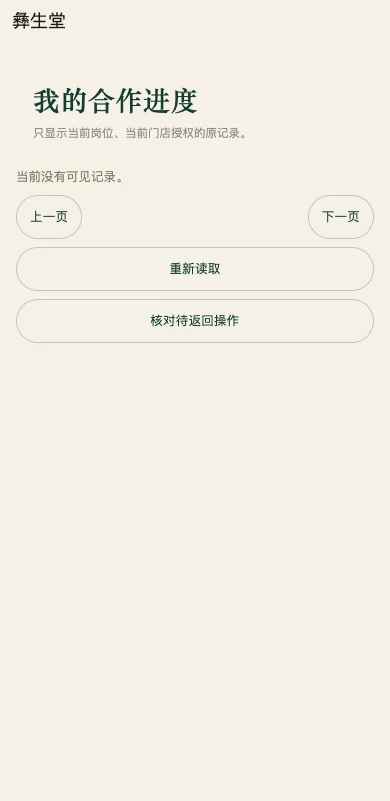
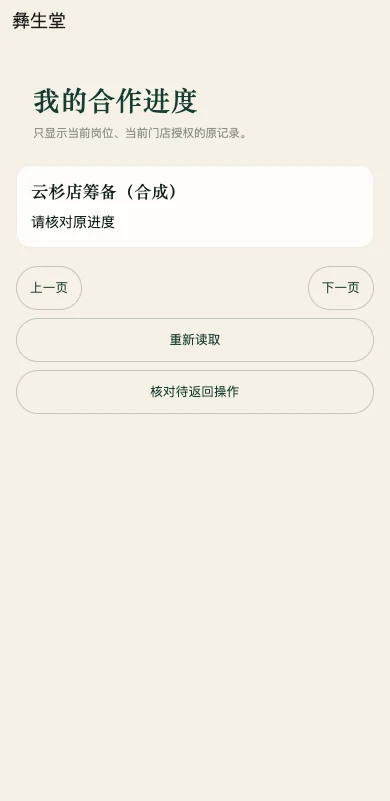
更新彝生堂公开手机工作台体验

diff --git a/lobby.css b/lobby.css
@@ -1,1 +1,3 @@
 *{box-sizing:border-box}html{scroll-behavior:smooth;scroll-padding:16px}body{margin:0;color:#183c32;background:#f8f5ee;font-family:-apple-system,BlinkMacSystemFont,"PingFang SC","Microsoft YaHei",sans-serif}a,button{font:inherit;color:inherit;cursor:pointer}a{text-decoration:none}button{border:0}header,main{width:min(1100px,100%);margin:auto;padding:0 clamp(16px,4vw,52px)}header{height:65px;display:flex;align-items:center;justify-content:space-between}header a{font-size:13px;text-decoration:underline;text-underline-offset:4px}header a,.secondary{min-height:44px;display:inline-flex;align-items:center}.mast{display:flex;align-items:center;gap:13px}.mast b,h1,.group h2{font-family:"Songti SC","STSong","Noto Serif CJK SC",serif}.mast b{font-size:24px;letter-spacing:.1em}.mast span{border-left:1px solid #b5bbab;padding-left:12px;font-size:12px}.intro{padding:24px 0 18px;border-top:1px solid #cfd3c6}.intro h1{margin:0;font-size:clamp(32px,5vw,54px);font-weight:650;letter-spacing:.035em}.intro p{font-size:15px;color:#475b51;line-height:1.75;max-width:600px;margin:12px 0 0}nav{display:flex;gap:8px;padding:0 0 22px;border-bottom:1px solid #a6b4a6}nav a{border:1px solid #bac6b7;border-radius:22px;padding:0 16px;line-height:42px;font-size:14px;background:#fffefa}.group{margin:26px 0 34px}.group h2{font-size:24px;line-height:1.2;margin:0 0 15px}.list{display:grid;grid-template-columns:repeat(2,minmax(0,1fr));gap:12px}.role{min-width:0;display:grid;grid-template-columns:minmax(0,1fr) 110px;gap:10px;align-items:center;padding:16px;border:1px solid #d4d9ca;background:#fffefa;border-radius:12px}.role h3{font-size:21px;margin:0}.role p{font-size:14px;line-height:1.6;color:#4b5d52;margin:7px 0 14px}.open{border:0;background:#194c3c;color:#fff;border-radius:6px;font-size:14px;font-weight:650;min-height:42px;padding:0 13px}.secondary{border:0;background:transparent;color:#325746;padding:0 5px;font-size:13px;text-decoration:underline;text-underline-offset:4px}.thumb{align-self:stretch;min-height:132px;max-height:159px;overflow:hidden;position:relative;background:#eeeee5;border:1px solid #d3d9cd;border-radius:6px;padding:0}.thumb img{width:100%;display:block;position:absolute;top:0;left:0}.buttons{display:flex;flex-wrap:wrap;gap:3px 6px}dialog{border:1px solid #c2cdbf;border-radius:12px;background:#fffefa;color:#193e32;max-height:92vh;width:min(430px,94vw);padding:14px;margin:auto}dialog::backdrop{background:#102c22aa}.viewer-bar{display:flex;align-items:center;justify-content:space-between;gap:10px;background:#fffefa;position:sticky;top:-14px;padding:5px 0;z-index:1}.viewer-bar h2{font-size:17px;margin:0}.viewer-bar button,#retry{border-radius:6px;background:#e8eee4;min-height:40px;padding:0 13px}#large{display:block;max-width:100%;margin:0 auto}#notice{line-height:1.6}button:focus-visible,a:focus-visible{outline:3px solid #96692d;outline-offset:2px}@media(max-width:680px){.list{grid-template-columns:1fr}.intro{padding-top:17px}header{height:52px}.role{grid-template-columns:minmax(0,1fr) 95px}.group{margin-top:21px}nav{gap:6px}nav a{padding:0 12px}}@media(max-width:360px){.role{padding:12px;grid-template-columns:minmax(0,1fr) 75px}.secondary{font-size:12px}}@media(prefers-reduced-motion:reduce){html{scroll-behavior:auto}}
+
+#quick{display:grid;grid-template-columns:repeat(5,minmax(0,1fr));gap:7px}.quick-role{font-size:14px;font-weight:600;background:#edf1e6;border:1px solid #c7d2c2;color:#234936;min-height:42px;border-radius:6px;padding:4px 2px}.quick-role:hover,.quick-role:focus-visible{background:#d9e6d6}#viewer.wide{width:min(1200px,96vw)}@media(max-width:620px){#quick{grid-template-columns:repeat(4,minmax(0,1fr));gap:6px}.quick-role{font-size:13px}}

diff --git a/index.html b/index.html
@@ -1,6 +1,6 @@
-<!doctype html><html lang="zh-CN"><head><meta charset="utf-8"><meta name="viewport" content="width=device-width,initial-scale=1,viewport-fit=cover"><meta name="theme-color" content="#f8f5ee"><meta name="referrer" content="no-referrer"><meta name="robots" content="noindex,nofollow"><title>彝生堂 · 全部岗位工作台</title><meta name="description" content="打开十个岗位的工作台，用同一笔合成业务体验顾客、门店和总部怎样协作。"><link rel="stylesheet" href="./lobby.css?v=2"></head>
-<body><header><div class="mast"><b>彝生堂</b><span>门店服务系统</span></div><a href="./qr.png">分享二维码</a></header><main>
+<!doctype html><html lang="zh-CN"><head><meta charset="utf-8"><meta name="viewport" content="width=device-width,initial-scale=1,viewport-fit=cover"><meta name="theme-color" content="#f8f5ee"><meta name="referrer" content="no-referrer"><meta name="robots" content="noindex,nofollow"><title>彝生堂 · 全部岗位工作台</title><meta name="description" content="打开十个岗位的工作台，用同一笔合成业务体验顾客、门店和总部怎样协作。"><link rel="stylesheet" href="./lobby.css?v=3"></head>
+<body><header><div class="mast"><b>彝生堂</b><span>门店服务系统</span></div><a href="./full-qr.png">分享二维码</a></header><main>
 <section class="intro"><h1>选择你的岗位</h1><p>看各岗位的实际界面，或进入工作台亲手操作。使用合成数据，切换岗位可以接着办理同一笔业务。</p></section>
-<nav aria-label="按工作找岗位"><a href="#store">门店服务</a><a href="#business">品牌经营</a><a href="#support">支持与维护</a></nav>
+<nav id="quick" aria-label="直接进入岗位工作台"></nav>
 <div id="directory"></div><noscript>请在浏览器中启用 JavaScript 以显示岗位列表。</noscript></main>
-<dialog id="viewer"><div class="viewer-bar"><h2 id="image-title"></h2><button id="close" aria-label="关闭界面预览">关闭</button></div><img id="large" alt=""></dialog><dialog id="launch"><div class="viewer-bar"><h2>进入工作台</h2><button id="dismiss">关闭</button></div><p id="notice" role="status">正在连接合成门店…</p><button hidden id="retry">重新连接</button></dialog><script src="./lobby.js?v=2"></script></body></html>
+<dialog id="viewer"><div class="viewer-bar"><h2 id="image-title"></h2><button id="close" aria-label="关闭界面预览">关闭</button></div><img id="large" alt=""></dialog><dialog id="launch"><div class="viewer-bar"><h2>进入工作台</h2><button id="dismiss">关闭</button></div><p id="notice" role="status">正在连接合成门店…</p><button hidden id="retry">重新连接</button></dialog><script src="./lobby.js?v=3"></script></body></html>

diff --git a/lobby.js b/lobby.js
@@ -14,13 +14,14 @@ const groups=[
  ['maintenance','维护负责人','查看运行状态、异常和修复交接记录。','维护状态']]}];
 const $=s=>document.querySelector(s),roles=groups.flatMap(g=>g.roles),ids=new Set(roles.map(r=>r[0]));
 function el(tag,cls,text){const n=document.createElement(tag);if(cls)n.className=cls;if(text)n.textContent=text;return n;}
-function preview(id,title,detail){const path='./screens/'+id+(detail?'-action':'')+'.webp';$('#image-title').textContent=title;$('#large').src=path;$('#large').alt=title+'实际界面';$('#viewer').showModal();}
+function preview(id,title,detail){const path='./screens/'+id+(detail==='web'?'-web':detail?'-action':'')+'.webp';$('#viewer').classList.toggle('wide',detail==='web');$('#image-title').textContent=title;$('#large').src=path;$('#large').alt=title+'实际界面';$('#viewer').showModal();}
 const showRole=r=>{
  const [id,title,desc,second]=r,article=el('article','role'),body=el('div'),actions=el('div','buttons');article.id='role-'+id;
  const open=el('button','open','进入工作台'),secondary=el('button','secondary','看'+second),thumb=el('button','thumb'),image=el('img');
  open.onclick=()=>enter(id);secondary.onclick=()=>preview(id,title+' · '+second,true);thumb.onclick=()=>preview(id,title+' · 首页',false);thumb.setAttribute('aria-label','放大'+title+'首页');image.src='./screens/'+id+'.webp';image.alt=title+'首页';image.loading='lazy';thumb.append(image);
- actions.append(open,secondary);body.append(el('h3','',title),el('p','',desc),actions);article.append(body,thumb);return article;
+ const web=el('button','secondary','看网页端');web.onclick=()=>preview(id,title+' · 网页端','web');actions.append(open,secondary,web);body.append(el('h3','',title),el('p','',desc),actions);article.append(body,thumb);return article;
 };
+for(const id of ['founder','franchise','manager','technician','customer','receptionist','trainer','finance','prospect','maintenance']){const r=roles.find(r=>r[0]===id),b=el('button','quick-role',r[1]);b.onclick=()=>enter(id);$('#quick').append(b);}
 for(const group of groups){const section=el('section','group'),list=el('div','list');section.id=group.id;section.append(el('h2','',group.title));group.roles.forEach(r=>list.append(showRole(r)));section.append(list);$('#directory').append(section);}
 $('#close').onclick=()=>$('#viewer').close();$('#dismiss').onclick=()=>$('#launch').close();
 let attempt=0;$('#launch').addEventListener('close',()=>attempt++);
